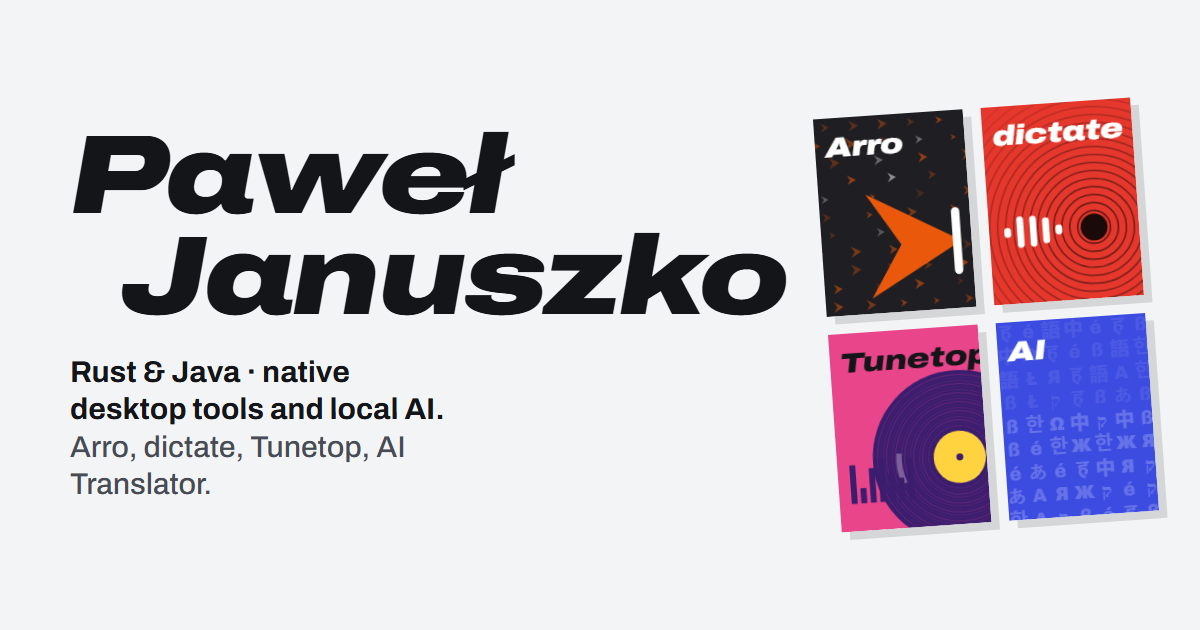
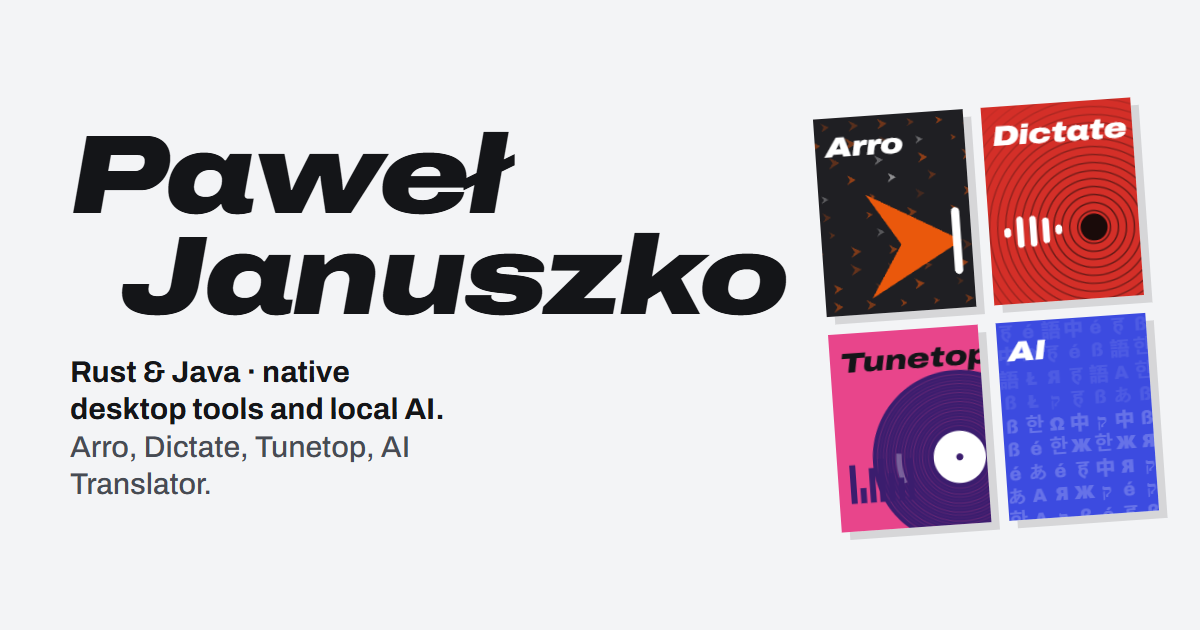
Dictate with a capital letter, like the other products

Changed region(s): [[0.7708, 0.6635, 0.8325, 0.7841], [0.1233, 0.6937, 0.3392, 0.754], [0.8325, 0.181, 0.9558, 0.2413]]

diff --git a/index.html b/index.html
@@ -4,7 +4,7 @@
 <meta charset="utf-8">
 <meta name="viewport" content="width=device-width, initial-scale=1">
 <title>Paweł Januszko · Rust &amp; Java, native desktop tools</title>
-<meta name="description" content="Paweł Januszko, software engineer. Native desktop tools in Rust and Java: Arro, a Java IDE written in Rust; Bowyer, one window for every AI coding agent; dictate, offline dictation on your own GPU; Tunetop; AI Translator.">
+<meta name="description" content="Paweł Januszko, software engineer. Native desktop tools in Rust and Java: Arro, a Java IDE written in Rust; Bowyer, one window for every AI coding agent; Dictate, offline dictation on your own GPU; Tunetop; AI Translator.">
 <link rel="canonical" href="https://pablosensei.github.io/">
 <meta property="og:type" content="website">
 <meta property="og:site_name" content="Paweł Januszko">
@@ -93,17 +93,17 @@
 <figure class="box" data-product="dictate" style="--i:2">
   <div class="box-stage">
     <div class="box-floor" aria-hidden="true"></div>
-    <div class="box-turn" tabindex="0" role="group" aria-roledescription="3D box" aria-label="dictate box. Arrow keys turn it, Enter turns it over.">
-      <div class="face front" aria-hidden="true"><canvas class="art" data-art="dictate"></canvas><div class="front-type"><div><div class="pname brand">dictate</div><div class="ptag">Offline push-to-talk dictation</div></div><div></div><div class="pfor">For Windows · macOS · Linux</div><span class="sticker"><small>Fully</small><small>offline</small></span></div></div>
-      <div class="face back" aria-hidden="true"><div class="back-inner"><div class="bname brand">dictate</div><ul class="checks"><li>Whisper on your own GPU</li><li>Types into any app</li><li>About 100 languages</li></ul><p class="reqline"><b>Requires</b> Windows 10 or 11 · macOS 11+ · Linux X11</p><div class="barcode"><svg data-barcode="DICTATE"></svg><span>DICTATE 0.3.0</span></div></div></div>
-      <div class="face right spine" aria-hidden="true"><div class="stack"><span class="sname">dictate</span><span class="mono">0.3.0</span></div></div>
+    <div class="box-turn" tabindex="0" role="group" aria-roledescription="3D box" aria-label="Dictate box. Arrow keys turn it, Enter turns it over.">
+      <div class="face front" aria-hidden="true"><canvas class="art" data-art="dictate"></canvas><div class="front-type"><div><div class="pname brand">Dictate</div><div class="ptag">Offline push-to-talk dictation</div></div><div></div><div class="pfor">For Windows · macOS · Linux</div><span class="sticker"><small>Fully</small><small>offline</small></span></div></div>
+      <div class="face back" aria-hidden="true"><div class="back-inner"><div class="bname brand">Dictate</div><ul class="checks"><li>Whisper on your own GPU</li><li>Types into any app</li><li>About 100 languages</li></ul><p class="reqline"><b>Requires</b> Windows 10 or 11 · macOS 11+ · Linux X11</p><div class="barcode"><svg data-barcode="DICTATE"></svg><span>DICTATE 0.3.0</span></div></div></div>
+      <div class="face right spine" aria-hidden="true"><div class="stack"><span class="sname">Dictate</span><span class="mono">0.3.0</span></div></div>
       <div class="face left spine" aria-hidden="true"><div class="stack"><span class="sname">Rust · whisper.cpp</span></div></div>
       <div class="face top" aria-hidden="true"><img src="/assets/img/projects/dictate-logo.svg" alt=""></div>
       <div class="face bottom" aria-hidden="true"></div>
     </div>
   </div>
   <figcaption class="box-caption">
-    <a class="pl" href="#dictate">dictate</a>
+    <a class="pl" href="#dictate">Dictate</a>
     <span class="sub">Offline dictation</span>
     <button class="turn-btn" type="button" aria-pressed="false"><svg viewBox="0 0 16 16" fill="none" stroke="currentColor" stroke-width="2" stroke-linecap="round" stroke-linejoin="round" aria-hidden="true"><path d="M13 8a5 5 0 1 1-1.6-3.7M13 2.5v3h-3"/></svg> Turn over</button>
   </figcaption>
@@ -199,7 +199,7 @@
   <section class="spread" data-product="dictate" id="dictate" aria-labelledby="dictate-h">
     <div class="wrap">
       <div class="reveal">
-        <div class="spread-id"><img src="/assets/img/projects/dictate-logo.svg" width="64" height="64" alt=""><h2 class="brand" id="dictate-h">dictate</h2></div>
+        <div class="spread-id"><img src="/assets/img/projects/dictate-logo.svg" width="64" height="64" alt=""><h2 class="brand" id="dictate-h">Dictate</h2></div>
         <p class="kind">Rust · whisper.cpp · CUDA · Metal · MIT licence</p>
         <p class="pitch">Private, offline push-to-talk dictation. Hold a key, speak, let go: the text is typed into whatever app you are in.</p>
         <div class="panel"><ul class="checks">
@@ -210,7 +210,7 @@
         <p class="links"><a class="primary" href="https://github.com/PabloSensei/dictate">Repository <svg viewBox="0 0 16 16" fill="none" stroke="currentColor" stroke-width="2" stroke-linecap="round" aria-hidden="true"><path d="M5 11 11 5M6.2 5H11v4.8"/></svg></a><a href="https://github.com/PabloSensei/dictate/releases/latest">Download 0.3.0</a></p>
       </div>
       <div class="side reveal">
-        <figure class="plate"><div class="fit"><img src="/assets/img/projects/dictate-settings.webp" width="910" height="682" alt="dictate settings window: shortcut, mode and microphone" decoding="async"></div><figcaption><b>Settings</b> Shortcut, hold or toggle, microphone, live text.</figcaption></figure>
+        <figure class="plate"><div class="fit"><img src="/assets/img/projects/dictate-settings.webp" width="910" height="682" alt="Dictate settings window: shortcut, mode and microphone" decoding="async"></div><figcaption><b>Settings</b> Shortcut, hold or toggle, microphone, live text.</figcaption></figure>
         <div class="meta-row">
           <div class="requires"><p class="req-head">System requirements</p><dl><dt>System</dt><dd>Windows 10 or 11; macOS 11+ and Linux with X11 in beta</dd><dt>Hardware</dt><dd>NVIDIA RTX 20 series or newer for the CUDA build, any x64 CPU with AVX2, or an Apple Silicon or Intel Mac</dd><dt>Network</dt><dd>Only for the optional update check</dd></dl></div>
           <span class="sticker"><small>Works</small><small>offline</small></span>

diff --git a/scripts/og.html b/scripts/og.html
@@ -43,8 +43,8 @@
       <div class="big"><canvas data-art="bowyer" data-t="0.6"></canvas><b>Bowyer</b></div>`;
   } else {
     og.className = "og";
-    og.innerHTML = `<div><h1 class="brand">Paweł<span class="l2">Januszko</span></h1><p class="sub">Rust &amp; Java · native desktop tools and local AI. <em>Arro, dictate, Tunetop, AI Translator.</em></p></div>
-      <div class="fronts">${["arro", "dictate", "tunetop", "ai-translator"].map((k) => `<div class="front" data-p="${k}"><canvas data-art="${k}" data-t="2.2"></canvas><b>${{ arro: "Arro", dictate: "dictate", tunetop: "Tunetop", "ai-translator": "AI" }[k]}</b></div>`).join("")}</div>`;
+    og.innerHTML = `<div><h1 class="brand">Paweł<span class="l2">Januszko</span></h1><p class="sub">Rust &amp; Java · native desktop tools and local AI. <em>Arro, Dictate, Tunetop, AI Translator.</em></p></div>
+      <div class="fronts">${["arro", "dictate", "tunetop", "ai-translator"].map((k) => `<div class="front" data-p="${k}"><canvas data-art="${k}" data-t="2.2"></canvas><b>${{ arro: "Arro", dictate: "Dictate", tunetop: "Tunetop", "ai-translator": "AI" }[k]}</b></div>`).join("")}</div>`;
   }
   const s = document.createElement("script");
   s.src = "/assets/js/boxes.js";
